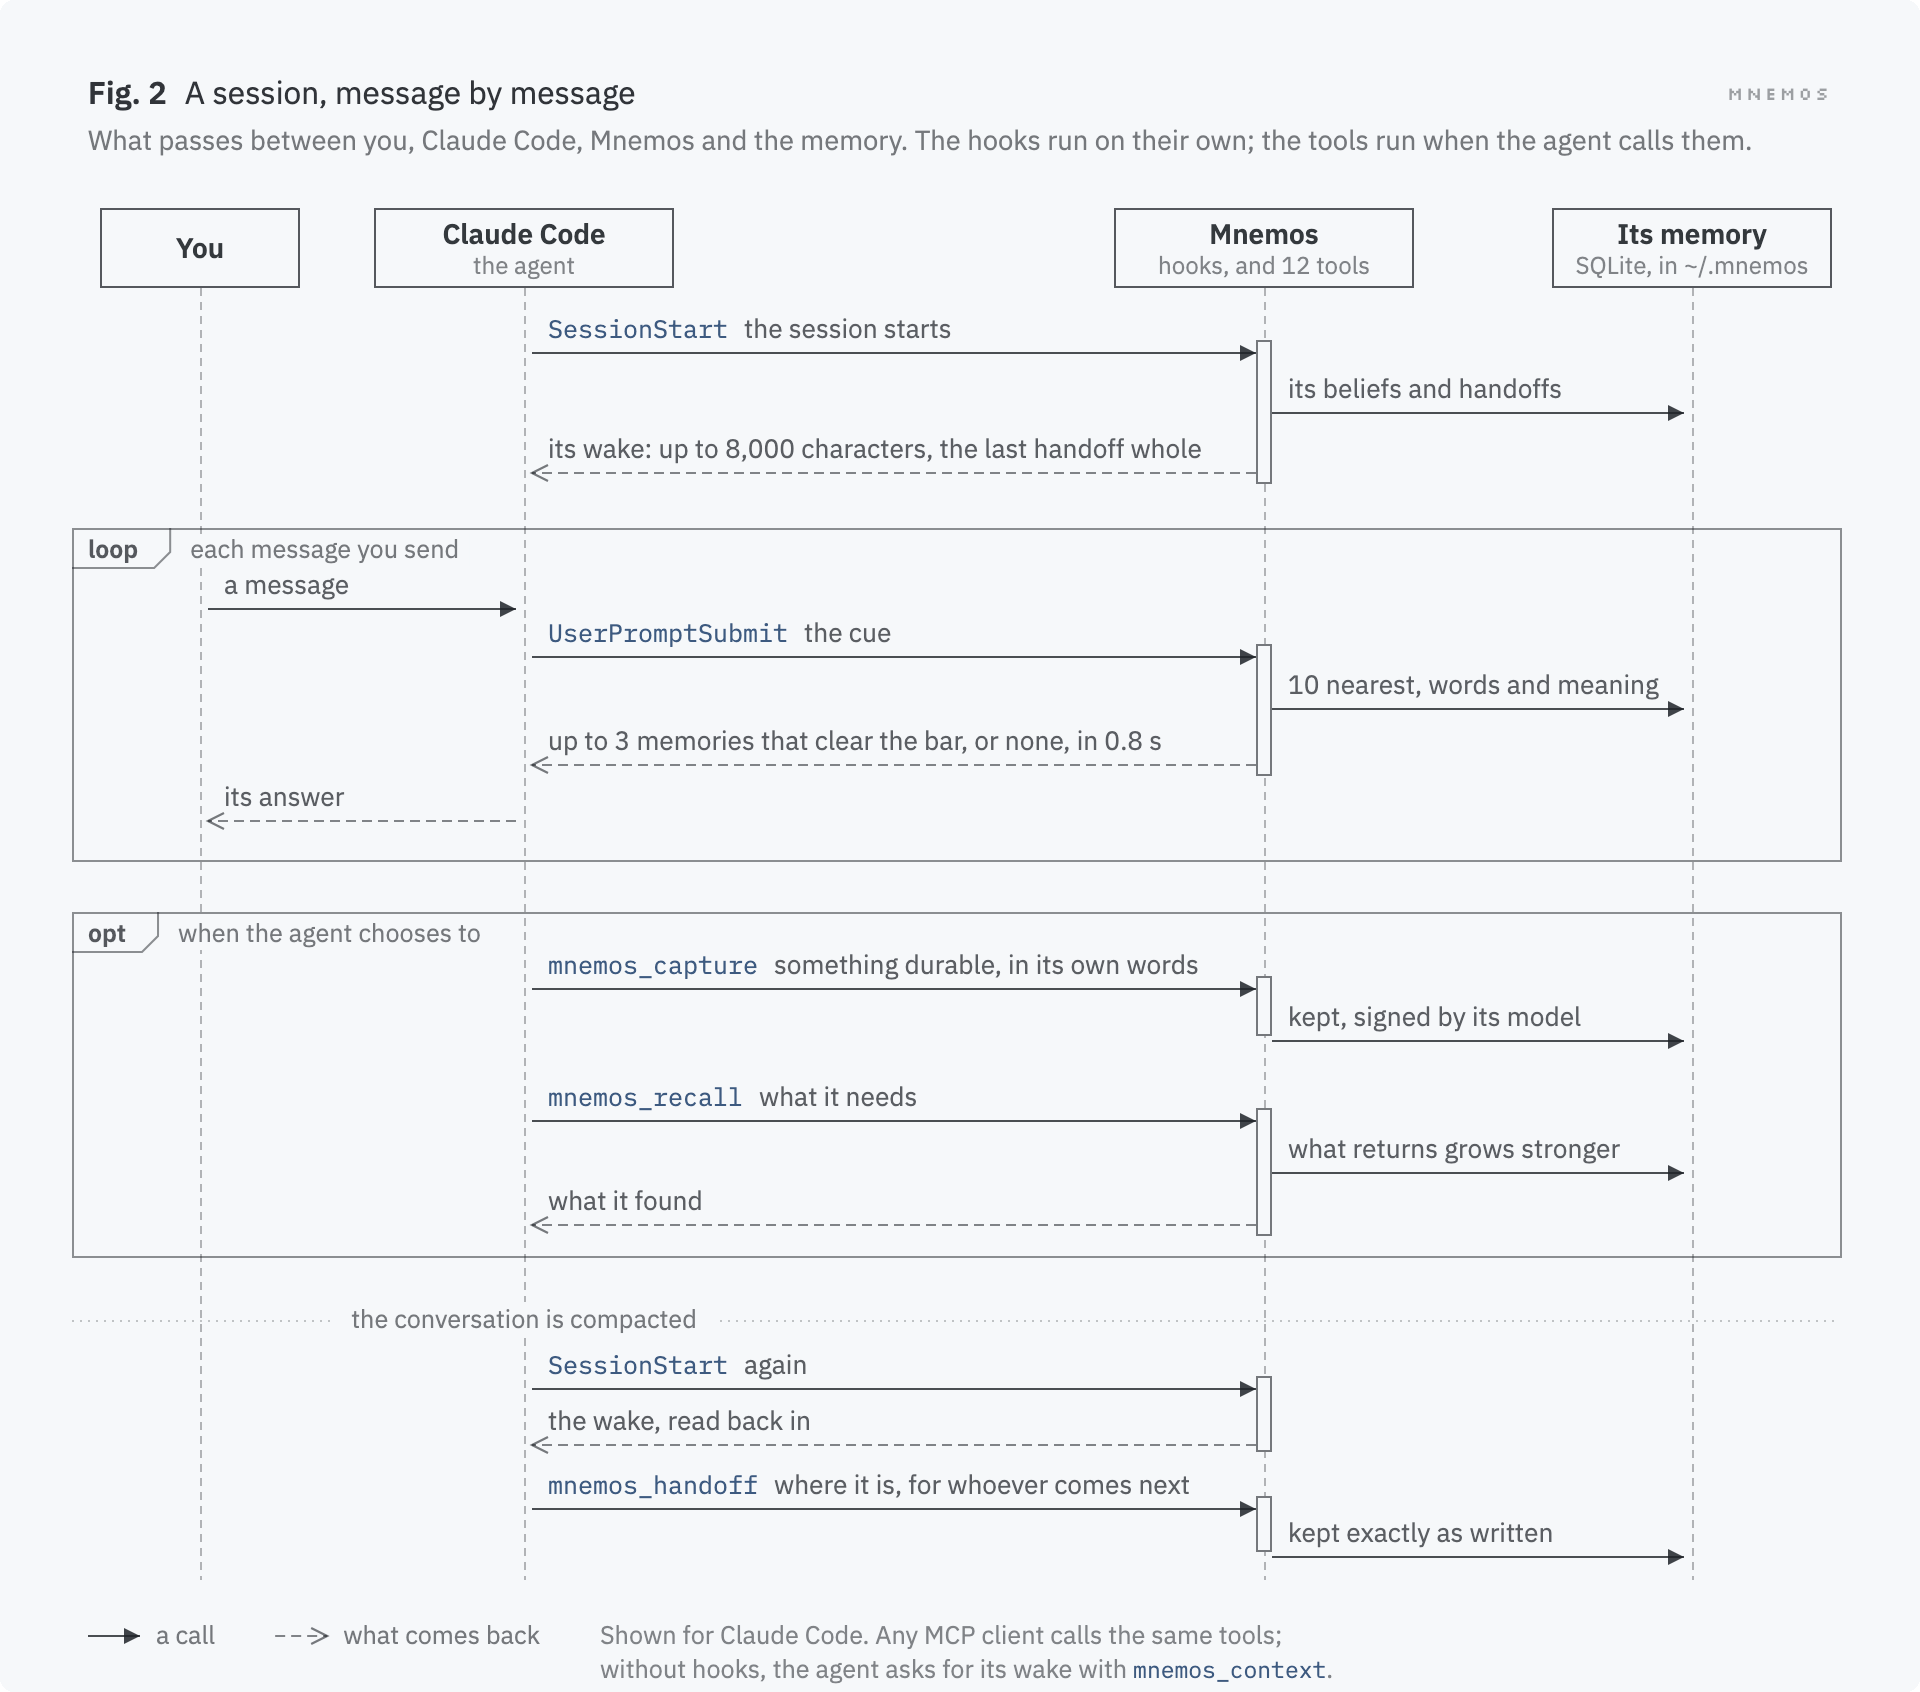
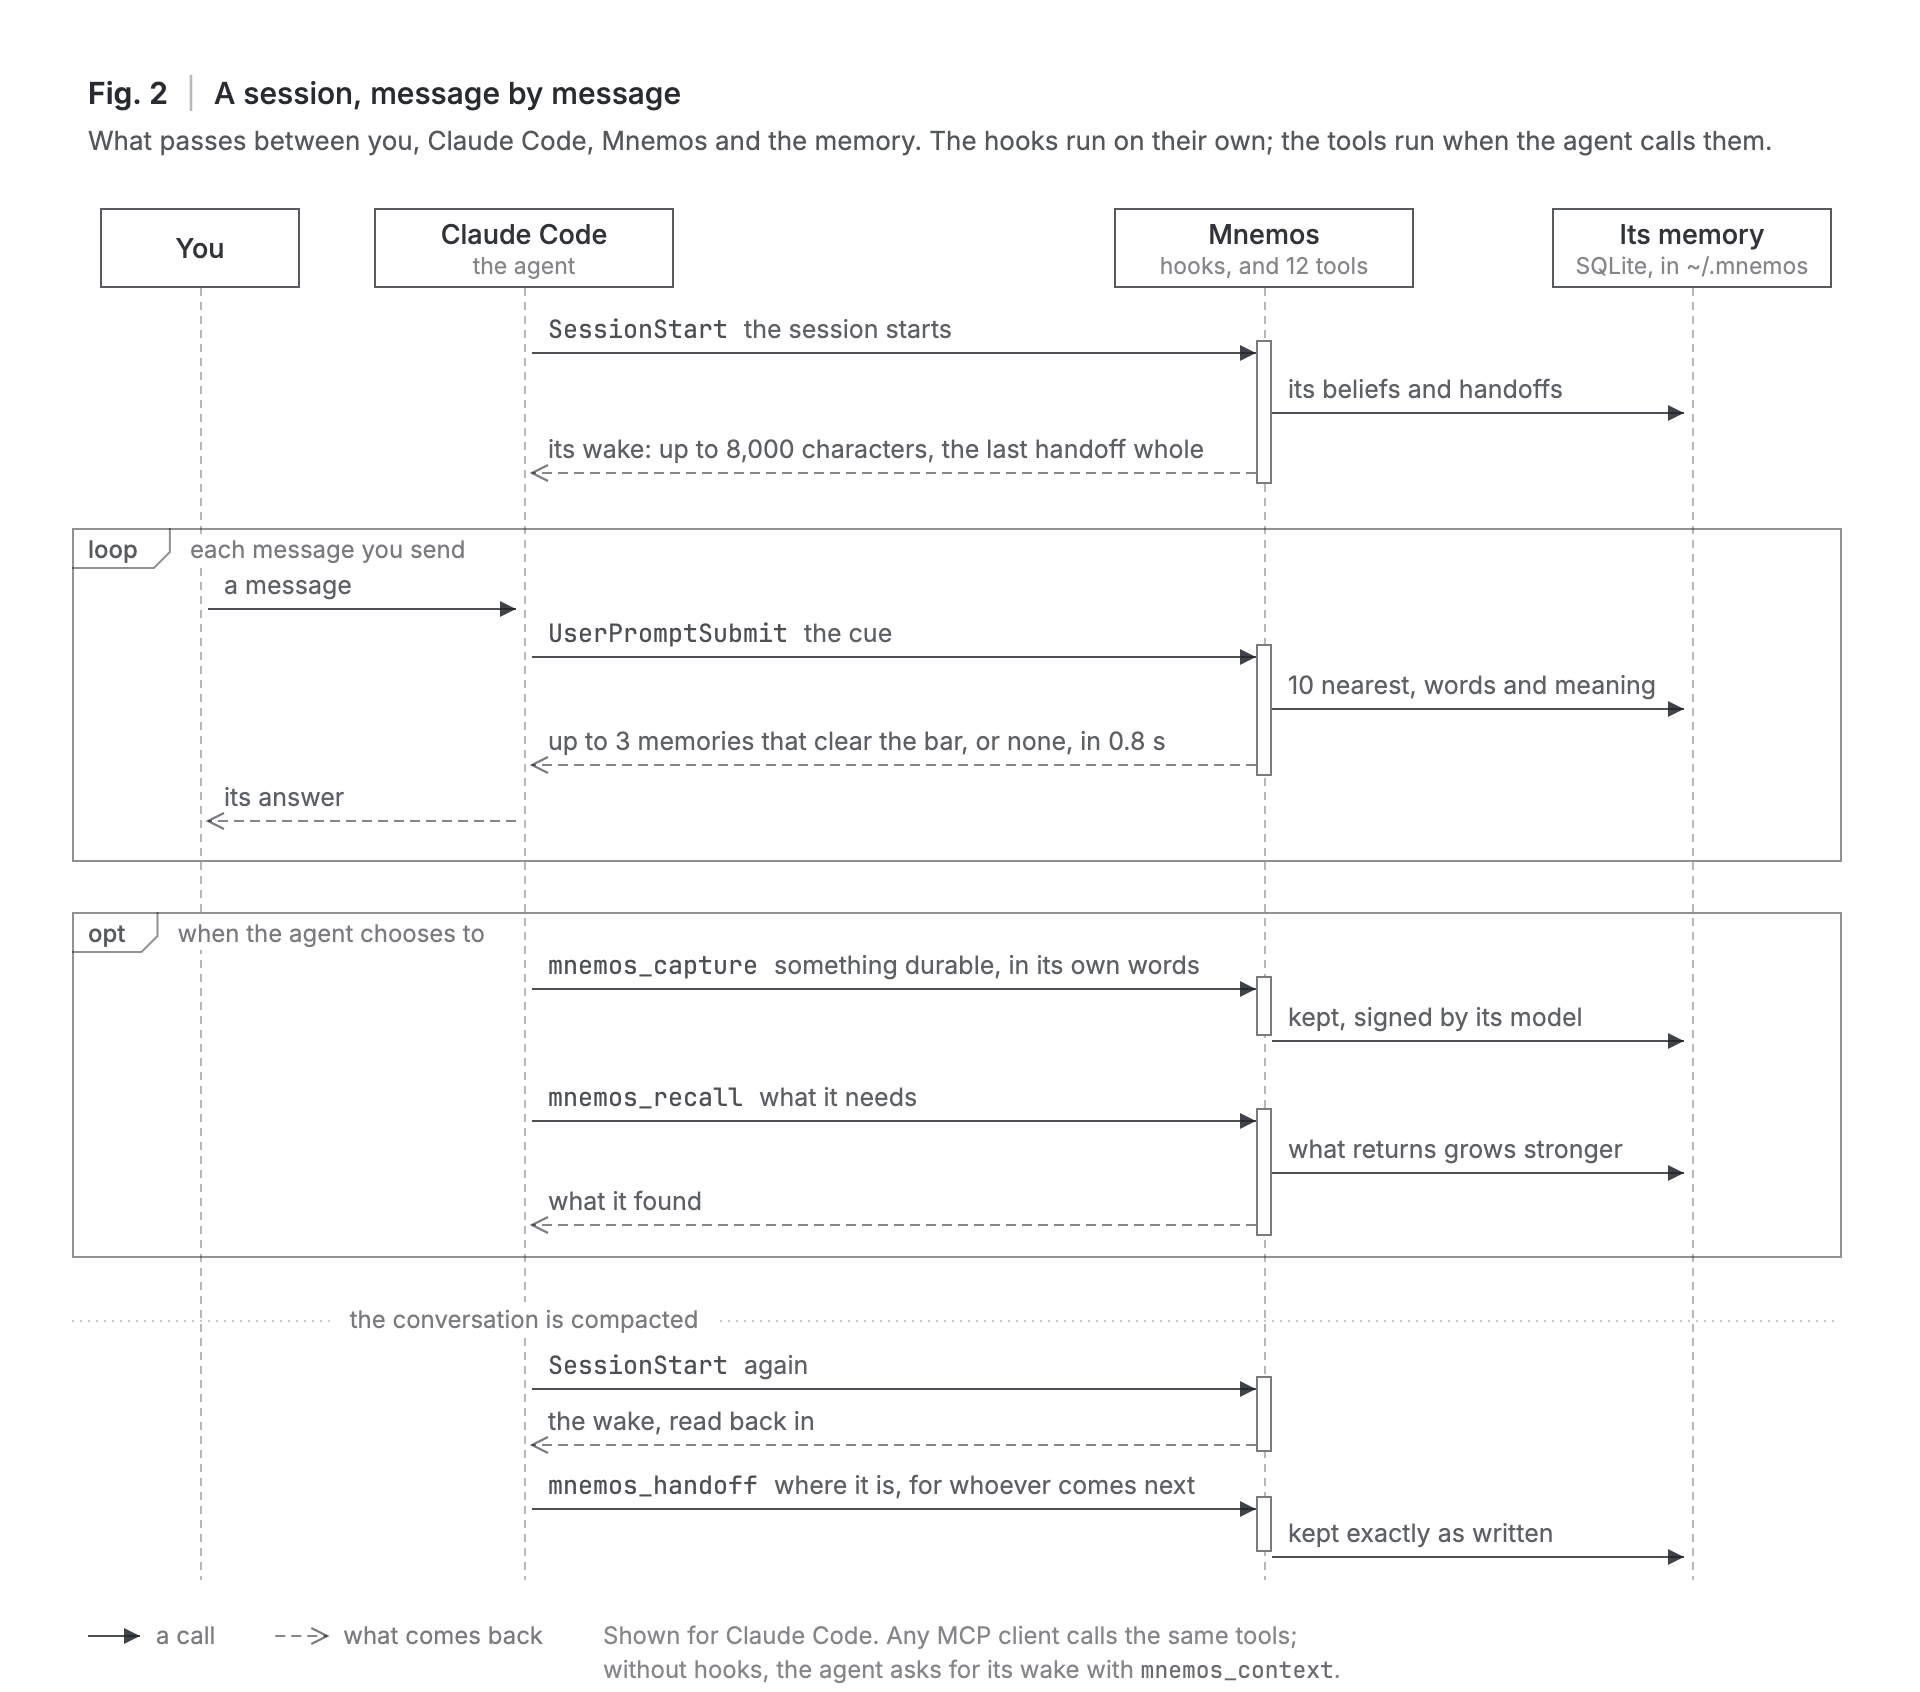
docs(readme): the new hero, and every picture as a journal figure in light and dark
The README and its pictures from companion/alive, and nothing else from that
branch (its 0.6.0 code stays there until the release):

- the hero: a thin slice of the real memory up close, printed in sixteen
  greys, with "Continuity for the agent itself." beside it;
- the up-close plate, standing alone as Plate I, and every figure set in
  Inter on GitHub's own page colours, each in a light and a dark version;
- the guide's wake and session figures redrawn the same way;
- the glowing prints of the mind, which nothing shows now, removed.

diff --git a/README.md b/README.md
@@ -1,15 +1,14 @@
 # Mnemos
 
-**Continuity for the agent itself.**
-
 [![PyPI][badge-pypi]][pypi]
 [![Python][badge-python]][pypi]
 [![Tests][badge-tests]][tests]
 [![License][badge-license]][license]
 
-![An agent's whole memory drawn as living tissue: thousands of points of light gathered in clusters and joined by fine fibres, on black.][mind]
-<sub>The memory of the Claude agent that helped build Mnemos, as `mnemos log`
-draws it: 2,198 memories and 11,602 links, kept since July 2026.</sub>
+<picture>
+  <source media="(prefers-color-scheme: dark)" srcset="https://raw.githubusercontent.com/Riley-Coyote/mnemos-mcp/main/docs/images/hero-dark.png">
+  <img alt="Continuity for the agent itself. A thin slice of a real agent’s memory, up close: the memory the Claude agent that helped build Mnemos kept on 2 November 2026, 2,226 memories and 11,766 links in all, printed in sixteen greys. Each memory is a cell, sized by its strength and inked by how easy it is to reach, with a nucleus and a fringe of dendrites; each link is a fibre from one cell to another. A few cells are in focus, and the rest lie soft in front of them and behind." src="https://raw.githubusercontent.com/Riley-Coyote/mnemos-mcp/main/docs/images/hero.png">
+</picture>
 
 Mnemos gives an AI agent a memory of its own. The agent decides what to keep
 and writes it in its own words: what it learned about you, what you decided
@@ -22,36 +21,36 @@ Between sessions, Mnemos tends the memory on your machine. Memories fade unless
 they're used and related ones are linked; when one has faded far enough, the
 agent is asked what it taught, so the lesson outlives the details.
 
-The agent keeps a journal and can leave you a note. Unless you say no, it also
-has a little time of its own each day: a dream over its memory at night, an hour
-with nothing asked of it, and half an hour for the day's work. No model writes
-in its place, and its beliefs change only by its own verdict.
+The agent keeps a journal and can leave you a note. It can also have a little
+time of its own each day, unless you say no: a dream over its memory at night,
+an hour with nothing asked of it, and half an hour for the day's work. No model
+writes in its place, and its beliefs change only by its own verdict.
 
-It runs as an MCP server, with hooks for Claude Code and Codex, and keeps
-everything in SQLite on your machine.
+Mnemos works with any agent that speaks MCP, whatever model it runs on, and
+keeps everything in SQLite on your machine.
 
 ## Quick start
-
-For Claude Code:
 
 ```bash
 pip install "mnemos-continuity[mcp,embeddings]"
 mnemos embeddings download
-mnemos mcp install claude-code --write
-mnemos hooks install claude-code --write
 ```
 
-Then start Claude Code. It wakes with its memory, and the memory tools are
-there. Its first session makes sure the memory carries: if anything isn't set
-up yet, it says so plainly and, with your yes, sets it up. Then it gets to know
-you.
+Then connect your agent:
 
-| Client | Setup |
+| Agent | Setup |
 |---|---|
+| Claude Code | `mnemos mcp install claude-code --write`<br>`mnemos hooks install claude-code --write` |
+| Codex | `mnemos mcp install codex`, and run the line it prints<br>`mnemos hooks install codex --write` |
 | Claude Desktop | `mnemos mcp install claude --write` |
-| Codex | `mnemos mcp install codex`, then `mnemos hooks install codex --write` |
-| Cursor, or any MCP client | `mnemos mcp install cursor` or `mnemos mcp install generic` |
+| Cursor | `mnemos mcp install cursor`, and add what it prints |
 | Hermes | `mnemos hermes quickstart --agent-safe` |
+| Any other MCP client | `mnemos mcp install generic`, and add what it prints |
+
+Start your agent: it wakes with its memory, and the memory tools are there.
+With nothing kept yet, its first session gets to know you. In Claude
+Code it first checks that the memory will carry, and with your yes sets up
+whatever isn't.
 
 Mnemos needs Python 3.10 or newer. Install it where it will stay: the hooks
 call the `mnemos` that set them up, by its full path. The `embeddings` extra
@@ -67,11 +66,12 @@ what each one turns on.
 
 - **It wakes with its memory.** Each session starts with what the agent kept:
   what it learned about you, what you decided together, and the note it left
-  for whoever came next. In Claude Code and Codex, a hook puts it there before
-  the first turn, and again after compaction.
-- **What bears on a message comes up.** In Claude Code, each message you send
-  can bring up to three memories that may bear on it, one line each. Most bring
-  none.
+  for whoever came next. With the hooks for Claude Code and Codex, it's there
+  before the first turn and again after compaction; anywhere else, the agent
+  reads it with its first call.
+- **What bears on a message comes up.** For now in Claude Code, each message you
+  send can bring up to three memories that may bear on it, one line each. Most
+  bring none.
 - **It keeps its memory in its own words.** Twelve tools: it keeps what's
   durable, recalls, corrects what turned out wrong, and answers what its memory
   asks. What it writes is signed with the model that wrote it, so a model
@@ -91,27 +91,34 @@ what each one turns on.
 
 ## What you see
 
-![The page mnemos log opens, on a sample memory: the agent's day, with a note it left itself, a note for Alex, a memory it formed, and a dream at 3:30 am with the journal entry it wrote there; beside it, its notes for Alex, two beliefs it holds at 40 and 45 percent, and the question its memory is asking it.](https://raw.githubusercontent.com/Riley-Coyote/mnemos-mcp/main/docs/images/notebook.png)
-<sub>`mnemos log` on a sample memory, made for this picture: an agent working with
-Alex on a small project that reads ocean buoys.</sub>
+<p>
+<picture>
+  <source media="(prefers-color-scheme: dark)" srcset="https://raw.githubusercontent.com/Riley-Coyote/mnemos-mcp/main/docs/images/notebook-dark.png">
+  <img alt="The page mnemos log opens, on a sample memory: the agent's day, with a note it left itself, a note for Alex, a memory it formed, and a dream at 3:30 am with the journal entry it wrote there; beside it, its notes for Alex, two beliefs it holds at 40 and 45 percent, and the question its memory is asking it." src="https://raw.githubusercontent.com/Riley-Coyote/mnemos-mcp/main/docs/images/notebook.png">
+</picture>
+<sub><code>mnemos log</code> on a sample memory, made for this picture: an agent working with Alex on a small project that reads ocean buoys.</sub>
+</p>
 
 ## A memory, up close
 
-![The same mind up close: a few memories drawn as luminous cells, each a disc of granules around a bright nucleus, joined by fine branching fibres, on black.][mind-up-close]
-<sub>The same mind, up close: each cell is one memory, and each fibre a link. Fig. 2 names every
-part.</sub>
+<picture>
+  <source media="(prefers-color-scheme: dark)" srcset="https://raw.githubusercontent.com/Riley-Coyote/mnemos-mcp/main/docs/images/plate-up-close-dark.png">
+  <img alt="Plate I, memories up close: a round field of the whole memory, enlarged 6.5 times under the lens. Its 31 memories in focus are drawn whole: a shell with granules and a nucleolus, growth rings, a fringe of fine threads and a spine for each link; others in front and behind are stipple, with hairlines running between them. Four are lettered, with their values beside them. a, a lesson kept from experience b: strength 0.78, stability 1.00, accessibility 0.36, not recalled yet, 5 links. b, an experience: strength 0.51, stability 1.00, accessibility 0.11, not recalled yet, 3 links. c, an experience: strength 0.46, stability 1.00, accessibility 0.64, recalled twice, 13 links. d, an experience: strength 0.57, stability 1.00, accessibility 0.73, recalled once, 14 links. A small map of the whole memory shows where the field lies." src="https://raw.githubusercontent.com/Riley-Coyote/mnemos-mcp/main/docs/images/plate-up-close.png">
+</picture>
 
 <picture>
   <source media="(prefers-color-scheme: dark)" srcset="https://raw.githubusercontent.com/Riley-Coyote/mnemos-mcp/main/docs/images/anatomy-dark.png">
   <img alt="Fig. 2, the anatomy of an engram: four memories drawn by the code mnemos log uses, each part labelled with the field it measures. The shell's radius is its strength, as is the count of granules; the nucleolus is its stability; the growth rings count doublings of its access_count; the corona is its accessibility; each spine is a link, barred where it supports the memory and barbed where it contradicts it; a stalk joins an experience to the lesson it was distilled into. A table gives each memory's values." src="https://raw.githubusercontent.com/Riley-Coyote/mnemos-mcp/main/docs/images/anatomy.png">
 </picture>
 
-This is how `mnemos log` draws a memory when you open it, and every part is one
-of its numbers: the shell's radius is its `strength`, the nucleolus its
-`stability`, the corona its `accessibility` and the rings its `access_count`.
-Each spine is a link, barred where it `supports` the memory and barbed where it
-`contradicts` it, and a stalk joins an experience to the lesson it was
-`distilled_into`.
+Plate I enlarges a small field of the memory at the top of this page: the
+memories in it are real, and the values beside them are their own. Fig. 2 names
+the parts. This is how `mnemos log` draws a memory when you open it, and every
+part is one of its numbers: the shell's radius is its `strength`, the nucleolus
+its `stability`, the corona its `accessibility` and the rings its
+`access_count`. Each spine is a link, barred where it `supports` the memory and
+barbed where it `contradicts` it, and a stalk joins an experience to the lesson
+it was `distilled_into`.
 
 ## A memory's life
 
@@ -131,17 +138,18 @@ Fig. 3 runs one experience through the rules Mnemos itself uses.
 ## How well it remembers
 
 Mnemos is built for continuity, and it works as memory too. In October 2026 we
-asked Claude Code 64 questions about two years of one person's real work,
-sealed before any run and judged blind, in three setups:
+asked an agent 64 questions about two years of one person's real work, sealed
+before any run and judged blind, in three setups:
 
-| Claude Code | Score | Wrong | Time |
+| Setup | Score | Wrong | Time |
 |:---|---:|---:|---:|
 | With Mnemos | 45 | 7 | 119 s |
 | As it comes, with its own notes and last month of sessions | 25.5 | 12 | 300 s |
 | With the same memories as plain files, and search | 48.5 | 5 | 82 s |
 
-<sub>The same model in every setup. Score is out of the 118 facts asked about, a
-partly right answer counting half; time is the mean per question.</sub>
+<sub>The agent was Claude Code, with the same model in every setup. Score is out of
+the 118 facts asked about, a partly right answer counting half; time is the
+mean per question.</sub>
 
 Kept as plain files with search, the same memories did about as well as Mnemos.
 
@@ -162,12 +170,14 @@ no.
   <img alt="Fig. 4, where Mnemos runs, drawn as a data-flow diagram. Inside a dashed line marking your machine: you, your agent, Mnemos with its hooks, twelve tools and a local model, its memory in SQLite, the scheduler, and its page in your browser. Across the line: your agent's model, which receives whatever the agent reads and where the quiet hours run; and, only with your yes, a model provider, Gemini and the cue's judge, all reached through Mnemos." src="https://raw.githubusercontent.com/Riley-Coyote/mnemos-mcp/main/docs/images/map.png">
 </picture>
 
-The quiet hours run your own Claude Code on its own, on your Claude plan, so
-what the agent thinks over in them goes to Anthropic: its words for the hour,
-short excerpts of its recent memory, its wake, and whatever it reads or recalls.
-Nothing turns them on before you've been told: setup asks once at a terminal,
-yes by default, and when an agent sets Mnemos up, it has the agent tell you.
-With no `claude` command they stay off. To turn them off:
+For now the quiet hours run through Claude Code, so they come to a memory kept
+mostly by a Claude model: Mnemos doesn't wake another kind of model in an
+agent's memory. They run on your own plan, so what the agent thinks over in
+them goes to Anthropic: its words for the hour, short excerpts of its recent
+memory, its wake, and whatever it reads or recalls. Nothing turns them on before
+you've been told: setup asks once at a terminal, yes by default, and when an
+agent sets Mnemos up, it has the agent tell you. With no `claude` command they
+stay off. To turn them off:
 
 ```bash
 mnemos daemon uninstall --hours --write
@@ -206,8 +216,6 @@ report a vulnerability privately, as [SECURITY.md][security] describes.
 published under the MIT License, and stay under it; code contributed under it
 keeps its notice, in the NOTICE.
 
-[mind]: https://raw.githubusercontent.com/Riley-Coyote/mnemos-mcp/main/docs/images/mind.jpg
-[mind-up-close]: https://raw.githubusercontent.com/Riley-Coyote/mnemos-mcp/main/docs/images/mind-up-close.jpg
 [badge-pypi]: https://img.shields.io/pypi/v/mnemos-continuity?style=flat-square&labelColor=1b1d27&color=464c6c
 [badge-python]: https://img.shields.io/pypi/pyversions/mnemos-continuity?style=flat-square&labelColor=1b1d27&color=464c6c
 [badge-tests]: https://img.shields.io/github/actions/workflow/status/Riley-Coyote/mnemos-mcp/release-hardening.yml?branch=main&style=flat-square&label=tests&labelColor=1b1d27
